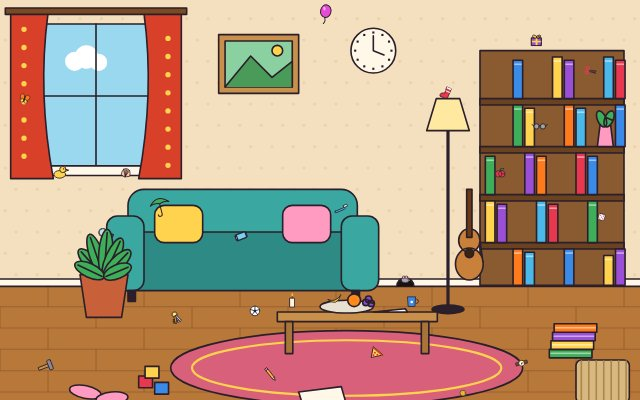
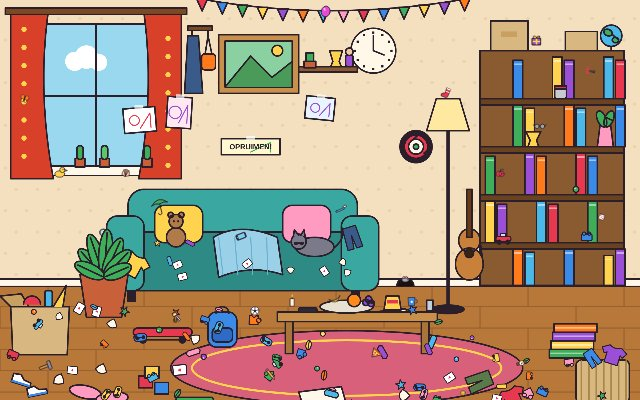
Zoekplaatje: rommelkamer veel voller en moeilijker, kleinere voorwerpen; CLAUDE.md bijgewerkt
Claude-Session: https://claude.ai/code/session_016yiCbYbiJxj3wDkRW1beUn

diff --git a/zoekplaatje.html b/zoekplaatje.html
@@ -128,15 +128,15 @@ const TEKEN = {
 };
 // naam, tekening, plek in de kamer, schaal, draaiing; voor = boven de voorgrond getekend (anders er half achter)
 const STRIP = [
-  ['Sleutelbos', 'sleutels', 330, 618, 0.6, 0.3], ['Bril', 'bril', 1012, 262, 0.55, 0, 1], ['Banaan', 'banaan', 628, 588, 0.6, -0.3],
-  ['Badeendje', 'eendje', 112, 348, 0.65, 0, 1], ['Mobieltje', 'telefoon', 452, 468, 0.55, 1.2, 1], ['Sok', 'sok', 838, 200, 0.55, 0.4, 1],
-  ['Mok', 'mok', 772, 590, 0.6, 0, 1], ['Potlood', 'potlood', 508, 728, 0.6, 0.9, 1], ['Schaar', 'schaar', 1106, 158, 0.5, 0.2, 1],
-  ['Horloge', 'horloge', 978, 706, 0.5, 1.3, 1], ['Appel', 'appel', 938, 350, 0.5, 0, 1], ['Kaars', 'kaars', 548, 590, 0.6, 0, 1],
-  ['Ballon', 'ballon', 610, 50, 0.7, 0.2, 1], ['Vergrootglas', 'vergrootglas', 196, 462, 0.6, -0.4], ['Muntje', 'munt', 868, 762, 0.45, 0, 1],
-  ['Paraplu', 'paraplu', 300, 410, 0.75, -0.25], ['Muisje', 'muis', 760, 548, 0.5, 0, 1], ['Dobbelsteen', 'dobbelsteen', 1128, 432, 0.45, 0.3, 1],
-  ['Schelp', 'schelp', 236, 350, 0.5, 0.2, 1], ['Tandenborstel', 'tandenborstel', 640, 418, 0.55, -0.4, 1], ['Pizzapunt', 'pizza', 706, 688, 0.6, 0.5],
-  ['Vlinder', 'vlinder', 46, 210, 0.5, 0.3, 1], ['Hamer', 'hamer', 86, 712, 0.6, 1.2, 1], ['Voetbal', 'voetbal', 478, 608, 0.6, 0],
-  ['Cadeautje', 'cadeau', 1006, 102, 0.6, 0, 1],
+  ['Sleutelbos', 'sleutels', 330, 618, 0.51, 0.3], ['Bril', 'bril', 1012, 262, 0.47, 0, 1], ['Banaan', 'banaan', 628, 588, 0.51, -0.3],
+  ['Badeendje', 'eendje', 112, 348, 0.55, 0, 1], ['Mobieltje', 'telefoon', 452, 468, 0.47, 1.2, 1], ['Sok', 'sok', 838, 200, 0.47, 0.4, 1],
+  ['Mok', 'mok', 772, 590, 0.51, 0, 1], ['Potlood', 'potlood', 508, 728, 0.51, 0.9, 1], ['Schaar', 'schaar', 1106, 158, 0.42, 0.2, 1],
+  ['Horloge', 'horloge', 978, 706, 0.42, 1.3, 1], ['Appel', 'appel', 938, 350, 0.42, 0, 1], ['Kaars', 'kaars', 548, 590, 0.51, 0, 1],
+  ['Ballon', 'ballon', 610, 50, 0.59, 0.2, 1], ['Vergrootglas', 'vergrootglas', 196, 462, 0.51, -0.4], ['Muntje', 'munt', 868, 762, 0.38, 0, 1],
+  ['Paraplu', 'paraplu', 300, 410, 0.64, -0.25], ['Muisje', 'muis', 760, 548, 0.42, 0, 1], ['Dobbelsteen', 'dobbelsteen', 1128, 432, 0.38, 0.3, 1],
+  ['Schelp', 'schelp', 236, 350, 0.42, 0.2, 1], ['Tandenborstel', 'tandenborstel', 640, 418, 0.47, -0.4, 1], ['Pizzapunt', 'pizza', 706, 688, 0.51, 0.5],
+  ['Vlinder', 'vlinder', 46, 210, 0.42, 0.3, 1], ['Hamer', 'hamer', 86, 712, 0.51, 1.2, 1], ['Voetbal', 'voetbal', 478, 608, 0.51, 0],
+  ['Cadeautje', 'cadeau', 1006, 102, 0.51, 0, 1],
 ];
 function vooraf(L, laag) { // tekent een laag één keer op een eigen doek (scherp genoeg om in te zoomen)
   const k = '_' + laag; if (L[k]) return L[k];
@@ -146,6 +146,76 @@ function vooraf(L, laag) { // tekent een laag één keer op een eigen doek (sche
 function tekenAuto() { const a = level.auto; ctx.save(); ctx.fillStyle = 'rgba(0,0,0,.25)'; ctx.beginPath(); ctx.ellipse(a[0], a[1] + 18 * a[2], 32 * a[2], 6 * a[2], 0, 0, 7); ctx.fill(); ctx.restore(); tekenVoorwerp(['', 'oldtimer', a[0], a[1], a[2], a[3]]); }
 function tekenVoorwerp(st, g = ctx) { ctx.save(); ctx.translate(st[2], st[3]); ctx.rotate(st[5]); ctx.scale(st[4], st[4]); TEKEN[st[1]](); ctx.restore(); }
 function boek(x, y, w, h, k) { ctx.fillStyle = k; ctx.fillRect(x, y, w, h); ctx.strokeRect(x, y, w, h); ctx.fillStyle = 'rgba(255,255,255,.5)'; ctx.fillRect(x + 2, y + 6, w - 4, 3); }
+function kruimel(x, y, s, soort, a, k) { // klein spul om de kamer rommelig te maken
+  ctx.save(); ctx.translate(x, y); ctx.rotate(a); ctx.scale(s, s); lijn(2);
+  if (soort == 0) { vorm(k, () => rr(-10, -6, 20, 12, 2)); vorm(k, () => { ctx.arc(-5, -7, 3, 0, 7); ctx.arc(5, -7, 3, 0, 7); }); } // legosteentje
+  else if (soort == 1) { vorm(k, () => rr(-14, -8, 28, 10, 4)); vorm('#2a1f2a', () => { ctx.arc(-8, 3, 4, 0, 7); ctx.arc(8, 3, 4, 0, 7); }); vorm('#bfe4f4', () => ctx.rect(-6, -13, 10, 6)); } // speelgoedautootje
+  else if (soort == 2) { vorm('#fff8e8', () => { for (let i = 0; i < 7; i++) { const r = 8 + (i % 2) * 3; ctx.lineTo(Math.cos(i * 0.9) * r, Math.sin(i * 0.9) * r); } ctx.closePath(); }); } // prop papier
+  else if (soort == 3) { vorm(k, () => { ctx.rect(-8, -8, 16, 16); }); vorm(k, () => { ctx.arc(0, -9, 4, 0, 7); ctx.arc(9, 0, 4, 0, 7); }); } // puzzelstukje
+  else if (soort == 4) { vorm('#fff', () => rr(-9, -12, 18, 24, 2)); ctx.fillStyle = '#e8384f'; ctx.font = 'bold 11px sans-serif'; ctx.textAlign = 'center'; ctx.fillText('♥', 0, 4); } // speelkaart
+  else if (soort == 5) { vorm(k, () => ctx.arc(0, 0, 5, 0, 7)); ctx.fillStyle = 'rgba(255,255,255,.6)'; ctx.beginPath(); ctx.arc(-1.5, -1.5, 1.6, 0, 7); ctx.fill(); } // knikker
+  else if (soort == 6) { vorm(k, () => { ctx.moveTo(-10, -5); ctx.lineTo(10, -5); ctx.lineTo(13, 0); ctx.lineTo(10, 5); ctx.lineTo(-10, 5); ctx.lineTo(-13, 0); ctx.closePath(); }); } // snoeppapiertje
+  else if (soort == 7) { vorm(k, () => { for (let i = 0; i < 10; i++) { const r = i % 2 ? 4 : 10; ctx.lineTo(Math.cos(i * 0.628 - 1.57) * r, Math.sin(i * 0.628 - 1.57) * r); } ctx.closePath(); }); } // sterretje
+  else if (soort == 8) { vorm(k, () => rr(-12, -7, 24, 14, 6)); vorm('#2a1f2a', () => { ctx.arc(-6, 0, 2.5, 0, 7); ctx.arc(6, -2, 2, 0, 7); ctx.arc(8, 2, 2, 0, 7); }); } // spelcomputerknopje
+  else { vorm(k, () => { ctx.ellipse(0, 0, 9, 5, 0, 0, 7); }); ctx.beginPath(); ctx.moveTo(-9, 0); ctx.lineTo(9, 0); ctx.stroke(); } // gummetje
+  ctx.restore();
+}
+function shirt(x, y, s, a, k) { ctx.save(); ctx.translate(x, y); ctx.rotate(a); ctx.scale(s, s); lijn(2.5);
+  vorm(k, () => { ctx.moveTo(-14, -20); ctx.lineTo(-30, -10); ctx.lineTo(-22, 2); ctx.lineTo(-16, -2); ctx.lineTo(-16, 22); ctx.lineTo(16, 22); ctx.lineTo(16, -2); ctx.lineTo(22, 2); ctx.lineTo(30, -10); ctx.lineTo(14, -20); ctx.quadraticCurveTo(0, -12, -14, -20); }); ctx.restore(); }
+function broek(x, y, s, a, k) { ctx.save(); ctx.translate(x, y); ctx.rotate(a); ctx.scale(s, s); lijn(2.5);
+  vorm(k, () => { ctx.moveTo(-14, -22); ctx.lineTo(14, -22); ctx.lineTo(16, 24); ctx.lineTo(3, 24); ctx.lineTo(0, -4); ctx.lineTo(-3, 24); ctx.lineTo(-16, 24); ctx.closePath(); }); ctx.restore(); }
+function kamerRommel() {
+  const r = rng(42), kl = ['#e8384f', '#3a8ae8', '#3fae5a', '#ffd34d', '#9a4fd6', '#ff7a1a', '#4ab8e8', '#ff9ac0'], k = () => kl[Math.floor(r() * kl.length)];
+  lijn(3);
+  // slinger met vlaggetjes en lichtjes langs het plafond
+  ctx.beginPath(); ctx.moveTo(360, 20); ctx.quadraticCurveTo(620, 70, 890, 20); ctx.stroke();
+  for (let i = 0; i < 14; i++) { const t = (i + 0.5) / 14, x = 360 + 530 * t, y = 20 + 100 * t * (1 - t); vorm(kl[i % kl.length], () => { ctx.moveTo(x - 10, y); ctx.lineTo(x + 10, y); ctx.lineTo(x, y + 22); ctx.closePath(); }); }
+  // tekeningen en foto's boven de bank
+  for (const [x, y, w, h, a, kk] of [[262, 250, 60, 46, -0.08, '#fff'], [336, 236, 46, 58, 0.06, '#ffe8f0'], [600, 228, 54, 42, 0.1, '#e8f4ff'], [470, 300, 110, 30, 0, '#fff8d0']]) {
+    ctx.save(); ctx.translate(x, y); ctx.rotate(a); vorm(kk, () => ctx.rect(-w / 2, -h / 2, w, h)); ctx.fillStyle = 'rgba(255,255,255,.7)'; ctx.fillRect(-8, -h / 2 - 5, 16, 8);
+    ctx.lineWidth = 2; ctx.strokeStyle = kl[(x + y) % 8]; ctx.beginPath(); if (w < 100) ctx.arc(-w / 6, 0, h / 5, 0, 7); ctx.moveTo(0, h / 3); ctx.lineTo(w / 3, -h / 4); ctx.lineTo(w / 3, h / 3); ctx.stroke(); lijn(3); ctx.restore(); }
+  ctx.fillStyle = '#2a1f2a'; ctx.font = 'bold 14px "Trebuchet MS",sans-serif'; ctx.textAlign = 'center'; ctx.fillText('OPRUIMEN!', 470, 305);
+  // darts en wandplankje
+  vorm('#2a1f2a', () => ctx.arc(780, 300, 30, 0, 7)); vorm('#e8384f', () => ctx.arc(780, 300, 22, 0, 7)); vorm('#fff8e8', () => ctx.arc(780, 300, 14, 0, 7)); vorm('#3fae5a', () => ctx.arc(780, 300, 5, 0, 7));
+  for (const [x, y] of [[770, 290], [795, 312]]) { ctx.beginPath(); ctx.moveTo(x, y); ctx.lineTo(x + 12, y - 10); ctx.stroke(); }
+  vorm('#8a5a30', () => ctx.rect(560, 150, 110, 10)); vorm('#3fae5a', () => { ctx.rect(574, 124, 14, 26); }); vorm('#c8603a', () => ctx.rect(570, 140, 22, 12));
+  vorm('#ffd34d', () => { ctx.moveTo(620, 150); ctx.lineTo(640, 150); ctx.lineTo(636, 140); ctx.lineTo(642, 120); ctx.lineTo(618, 120); ctx.lineTo(624, 140); ctx.closePath(); }); // bekertje
+  vorm('#9a4fd6', () => rr(648, 128, 14, 22, 4)); vorm('#f2c8a0', () => ctx.arc(655, 122, 7, 0, 7)); // poppetje
+  // kapstok met jas, tas en sjaal naast het raam
+  vorm('#7a4a24', () => ctx.rect(352, 74, 46, 8)); for (const x of [360, 390]) { ctx.beginPath(); ctx.moveTo(x, 82); ctx.lineTo(x, 92); ctx.stroke(); }
+  vorm('#3a5a8a', () => { ctx.moveTo(352, 92); ctx.lineTo(372, 92); ctx.lineTo(380, 200); ctx.lineTo(346, 200); ctx.closePath(); });
+  ctx.beginPath(); ctx.moveTo(390, 92); ctx.lineTo(384, 130); ctx.moveTo(390, 92); ctx.lineTo(398, 130); ctx.stroke(); vorm('#ff7a1a', () => rr(378, 126, 26, 30, 6));
+  // bovenop de kast: dozen en een wereldbol
+  vorm('#d8b880', () => ctx.rect(920, 64, 70, 56)); vorm('#c8a060', () => ctx.rect(940, 84, 30, 10), false); vorm('#d8b880', () => ctx.rect(1060, 84, 60, 36));
+  vorm('#4ab8e8', () => ctx.arc(1146, 92, 20, 0, 7)); vorm('#3fae5a', () => { ctx.ellipse(1140, 86, 8, 6, 0.4, 0, 7); ctx.ellipse(1154, 100, 6, 5, 0, 0, 7); }); ctx.beginPath(); ctx.moveTo(1146, 112); ctx.lineTo(1146, 120); ctx.stroke();
+  // spullen tussen de boeken
+  vorm('#ffd34d', () => { ctx.moveTo(990, 300); ctx.lineTo(1010, 300); ctx.lineTo(1006, 288); ctx.lineTo(1014, 272); ctx.lineTo(986, 272); ctx.lineTo(994, 288); ctx.closePath(); }); // beker
+  kruimel(944, 476, 1, 1, 0, '#e8384f'); kruimel(1080, 380, 1.1, 5, 0, '#3fae5a'); kruimel(1100, 470, 1, 0, 0, '#3a8ae8');
+  vorm('#c8c8d0', () => rr(1040, 186, 22, 24, 4)); vorm('#e8384f', () => ctx.rect(1040, 186, 22, 6)); // potje
+  // vensterbank: cactusjes
+  for (const [x, kk] of [[150, '#3fae5a'], [196, '#5ac86a'], [276, '#3fae5a']]) { vorm('#c8603a', () => ctx.rect(x - 9, 322, 18, 16)); vorm(kk, () => rr(x - 6, 298, 12, 26, 6)); }
+  // bank: kat, deken, kleren, knuffel
+  vorm('#9ad0e8', () => { ctx.moveTo(400, 470); ctx.quadraticCurveTo(450, 440, 520, 470); ctx.lineTo(530, 540); ctx.quadraticCurveTo(470, 520, 410, 545); ctx.closePath(); }); // deken
+  ctx.strokeStyle = '#6ab0d0'; ctx.lineWidth = 2; for (let i = 0; i < 4; i++) { ctx.beginPath(); ctx.moveTo(410 + i * 30, 470); ctx.lineTo(418 + i * 28, 540); ctx.stroke(); } lijn(3);
+  vorm('#7a7a8a', () => ctx.ellipse(590, 488, 36, 18, 0, 0, 7)); vorm('#7a7a8a', () => ctx.arc(560, 478, 14, 0, 7)); vorm('#7a7a8a', () => { ctx.moveTo(550, 468); ctx.lineTo(552, 456); ctx.lineTo(560, 466); ctx.moveTo(564, 466); ctx.lineTo(570, 456); ctx.lineTo(572, 468); });
+  ctx.beginPath(); ctx.arc(555, 480, 3, 0.2, 2.9); ctx.arc(566, 480, 3, 0.2, 2.9); ctx.moveTo(626, 490); ctx.quadraticCurveTo(650, 470, 640, 450); ctx.stroke(); // slapende grijze kat
+  shirt(250, 520, 1, 0.5, '#ffd34d'); broek(660, 470, 0.9, -0.3, '#3a5a8a');
+  vorm('#b07a4a', () => { ctx.arc(330, 470, 18, 0, 7); }); vorm('#b07a4a', () => { ctx.arc(330, 440, 13, 0, 7); ctx.moveTo(320, 430); ctx.arc(320, 428, 5, 0, 7); ctx.moveTo(345, 428); ctx.arc(340, 428, 5, 0, 7); }); ctx.fillStyle = '#2a1f2a'; ctx.beginPath(); ctx.arc(326, 440, 2, 0, 7); ctx.arc(334, 440, 2, 0, 7); ctx.fill(); // beer
+  // salontafel: afstandsbediening, chips, glas, tijdschriften
+  vorm('#2a2a3a', () => rr(560, 602, 34, 9, 3)); vorm('#ffd34d', () => { ctx.moveTo(720, 606); ctx.lineTo(752, 606); ctx.lineTo(748, 580); ctx.lineTo(724, 580); ctx.closePath(); }); ctx.fillStyle = '#e8384f'; ctx.fillRect(726, 588, 20, 6);
+  vorm('rgba(200,230,255,.8)', () => ctx.rect(800, 588, 12, 20));
+  // vloer: doos met speelgoed, rugzak, skateboard, kleren, schoenen
+  vorm('#d8b880', () => { ctx.moveTo(20, 600); ctx.lineTo(130, 600); ctx.lineTo(126, 690); ctx.lineTo(24, 690); ctx.closePath(); }); vorm('#c8a060', () => { ctx.moveTo(20, 600); ctx.lineTo(0, 580); ctx.lineTo(40, 576); ctx.lineTo(54, 600); ctx.closePath(); });
+  vorm('#e8384f', () => ctx.arc(60, 596, 16, Math.PI, 0)); vorm('#4ab8e8', () => rr(84, 570, 14, 30, 4)); vorm('#ffd34d', () => { ctx.moveTo(100, 600); ctx.lineTo(124, 560); ctx.lineTo(118, 600); });
+  vorm('#3a8ae8', () => rr(390, 610, 54, 66, 16)); vorm('#2e6ac8', () => rr(398, 640, 38, 26, 8)); ctx.beginPath(); ctx.arc(417, 612, 12, Math.PI, 0); ctx.stroke(); // rugzak
+  vorm('#e8384f', () => rr(250, 640, 110, 16, 8)); vorm('#2a1f2a', () => { ctx.arc(268, 662, 6, 0, 7); ctx.arc(342, 662, 6, 0, 7); }); // skateboard
+  broek(900, 740, 1, 1.2, '#5a7a4a'); shirt(960, 770, 0.9, -0.4, '#e8384f'); shirt(1150, 690, 0.8, 0.3, '#9a4fd6'); broek(1110, 696, 0.7, -0.6, '#3a8ae8'); // was uit de mand
+  for (const [x, y, a] of [[40, 740, 0.3], [70, 760, -0.2]]) { ctx.save(); ctx.translate(x, y); ctx.rotate(a); vorm('#fff', () => { ctx.moveTo(-18, 6); ctx.lineTo(18, 6); ctx.lineTo(18, -2); ctx.lineTo(4, -4); ctx.lineTo(-4, -12); ctx.lineTo(-18, -10); ctx.closePath(); }); vorm('#3a8ae8', () => ctx.rect(-18, 2, 36, 4), false); ctx.restore(); } // sneakers
+  vorm('#3fae5a', () => rr(330, 770, 70, 26, 4)); ctx.fillStyle = '#fff'; ctx.font = 'bold 11px sans-serif'; ctx.fillText('SPEL', 365, 788); // spellendoos
+  // kleine rommel overal op de vloer en het kleed
+  for (let i = 0; i < 70; i++) { const x = 20 + r() * 1160, y = 600 + r() * 190; if (x > 1070 && y < 700) continue; kruimel(x, y, 0.7 + r() * 0.4, Math.floor(r() * 10), r() * 6, k()); }
+  for (let i = 0; i < 10; i++) kruimel(260 + r() * 400, 470 + r() * 80, 0.7, [0, 2, 4, 6, 7][Math.floor(r() * 5)], r() * 6, k()); // op de bank
+}
 // de kamer zelf: eerst alles wat achter de voorwerpen zit
 function kamerAchter() {
   lijn(3);
@@ -199,6 +269,7 @@ function kamerAchter() {
   vorm('#c8603a', () => { ctx.moveTo(150, 540); ctx.lineTo(240, 540); ctx.lineTo(228, 620); ctx.lineTo(162, 620); ctx.closePath(); });
   // gitaar tegen de kast
   vorm('#c8803a', () => { ctx.ellipse(880, 520, 26, 30, 0, 0, 7); ctx.ellipse(880, 476, 20, 22, 0, 0, 7); }); vorm('#3a2410', () => ctx.arc(880, 500, 8, 0, 7)); vorm('#6a3a14', () => ctx.rect(875, 380, 10, 90));
+  kamerRommel();
 }
 // wat ervoor staat: bladeren van de plant, de lampenkap
 function kamerVoor() {

diff --git a/CLAUDE.md b/CLAUDE.md
@@ -82,7 +82,7 @@ bedenk dat de site openbaar is.
   (groepen) en op het bord vast (`vastklikken`). Hulpjes: Voorbeeld (klein rechtsboven `#mini`, tik = groot met zoomen/schuiven/dubbeltik `#groot`), Randjes, Sorteren op kleur, alles in beeld.
   Zoomen met twee vingers of muiswiel, schuiven door op een lege plek te slepen. Voortgang in `fotopuzzel:<naam>`
   (zaadje voor de vormen + posities), record per foto/aantal in `fotopuzzel_<foto>_<n>[d]:<naam>`.
-- Zoekplaatje (`zoekplaatje.html`, concept, met wachtwoord): zoek 25 voorwerpen in een plaatje; bovenin staan er steeds 10
+- Zoekplaatje (`zoekplaatje.html`, concept, met wachtwoord): zoek alle voorwerpen van een level (25 of meer; het orkest heeft er 35, teller "🔍 nog N" via `totaal`/`zetTeller`) in een plaatje; bovenin staan er steeds 10
   (`actief`); eerst bovenin een vakje kiezen (`kiesVak`, `gekozen`, geel), dan het voorwerp aantikken; zonder keuze of bij een
   ander voorwerp een melding (`meld`). Een gevonden voorwerp wordt vervangen door het volgende uit `rij`. Zoomen met twee vingers/muiswiel, slepen =
   schuiven, tik = zoeken (marge 14 schermpixels), 💡 Hint (15 s wachten). Level 1 "De rommelkamer" is getekend in de code
@@ -93,7 +93,10 @@ bedenk dat de site openbaar is.
   los in de repo zetten. Voortgang per speler: `zoek_lvl:<naam>` (hoogste open level) en `zoek_tijd<n>:<naam>` (snelste tijd).
   Een level pas open als het vorige klaar is. `#tegel` tekent de stripkamer voor de startpagina.
   Levels in `LEVELS` (getekend: `achter`/`voor`/`items`; foto: uit kamer.bin): 1 De rommelkamer, 2 Bij ons thuis (foto; in de levelkeuze heet hij "De verrassingskamer", `menu`),
-  3 Het orkest (`orkestAchter`/`orkestVoor`, `ORKEST`: dirigent met een wortel, kat in de tuba, slapende paukenist).
+  3 Het orkest (2000x1300, `OW`/`OH`; stijl van een Van Haasteren-puzzel: ruim 100 muzikanten dicht op elkaar in 5 halve
+  cirkels via `muzikant(x, y, s, o)` met `INSTR` en grapjes `GAG`, orgel, scherm met programma en LIVE-beeld, harp met hond, pizzabezorger,
+  schoonmaakster; vaste willekeur via `rng(zaad)`; `ORKEST` = 35 voorwerpen). Level 1 is rommelig gemaakt met `kamerRommel`/`kruimel`.
+  Getekende levels hebben `w`/`h` en worden één keer vooraf op een eigen doek getekend (`vooraf(L, laag)`), dus zware tekeningen kunnen.
   In elk level staat de zilveren oldtimer (eigen ontwerp zonder merk; geen Lucky Luke of Mercedes-logo, dat is beschermd):
   `auto: [x, y, schaal, draai]` per level, staat niet op het lijstje; gevonden = toeter + "Oh jee, daar is hij weer!",
   bewaard in `zoek_auto<n>:<naam>` en een 🚗 bij het level in de levelkeuze.
